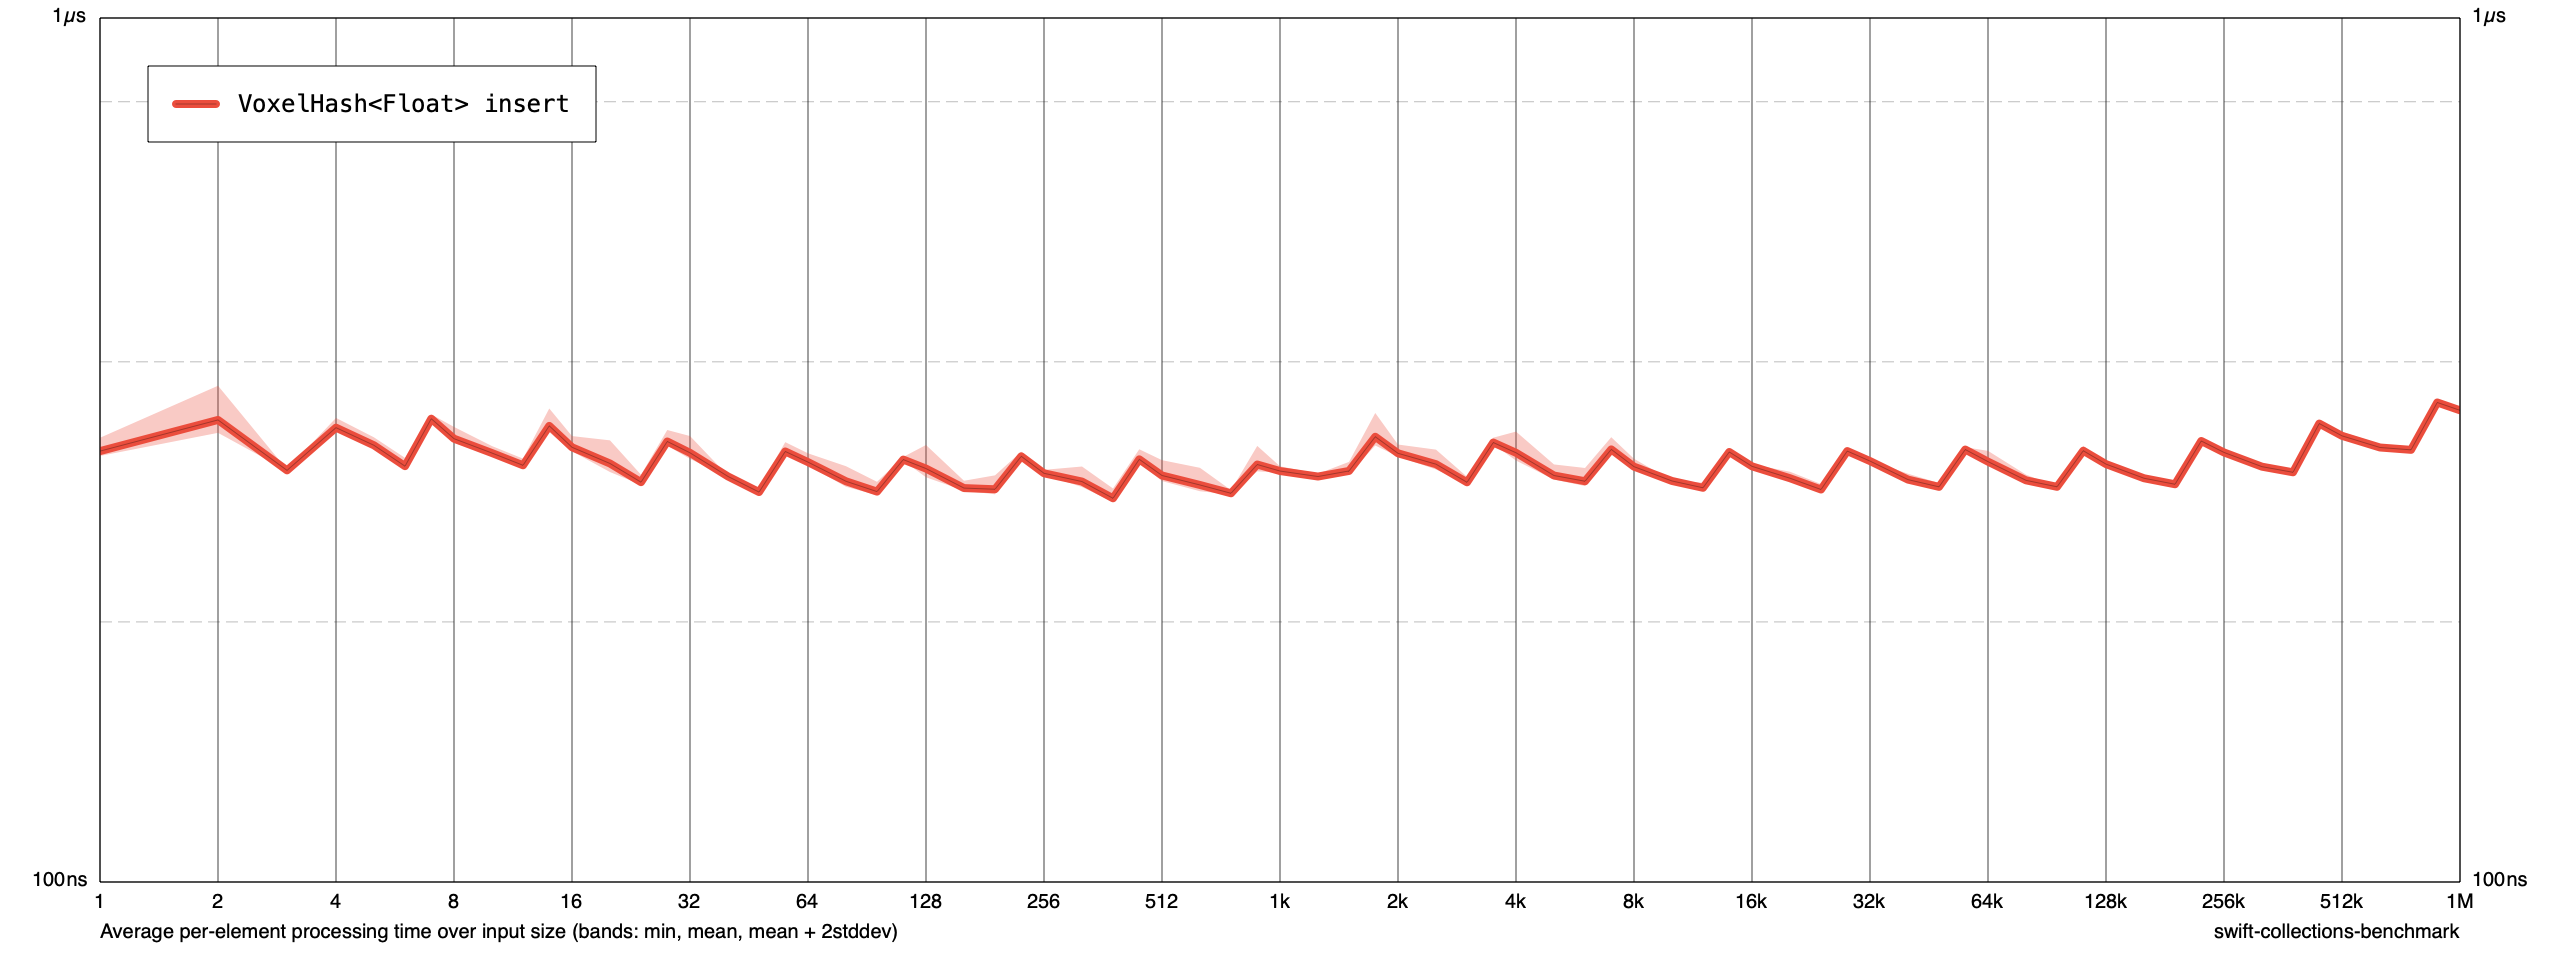
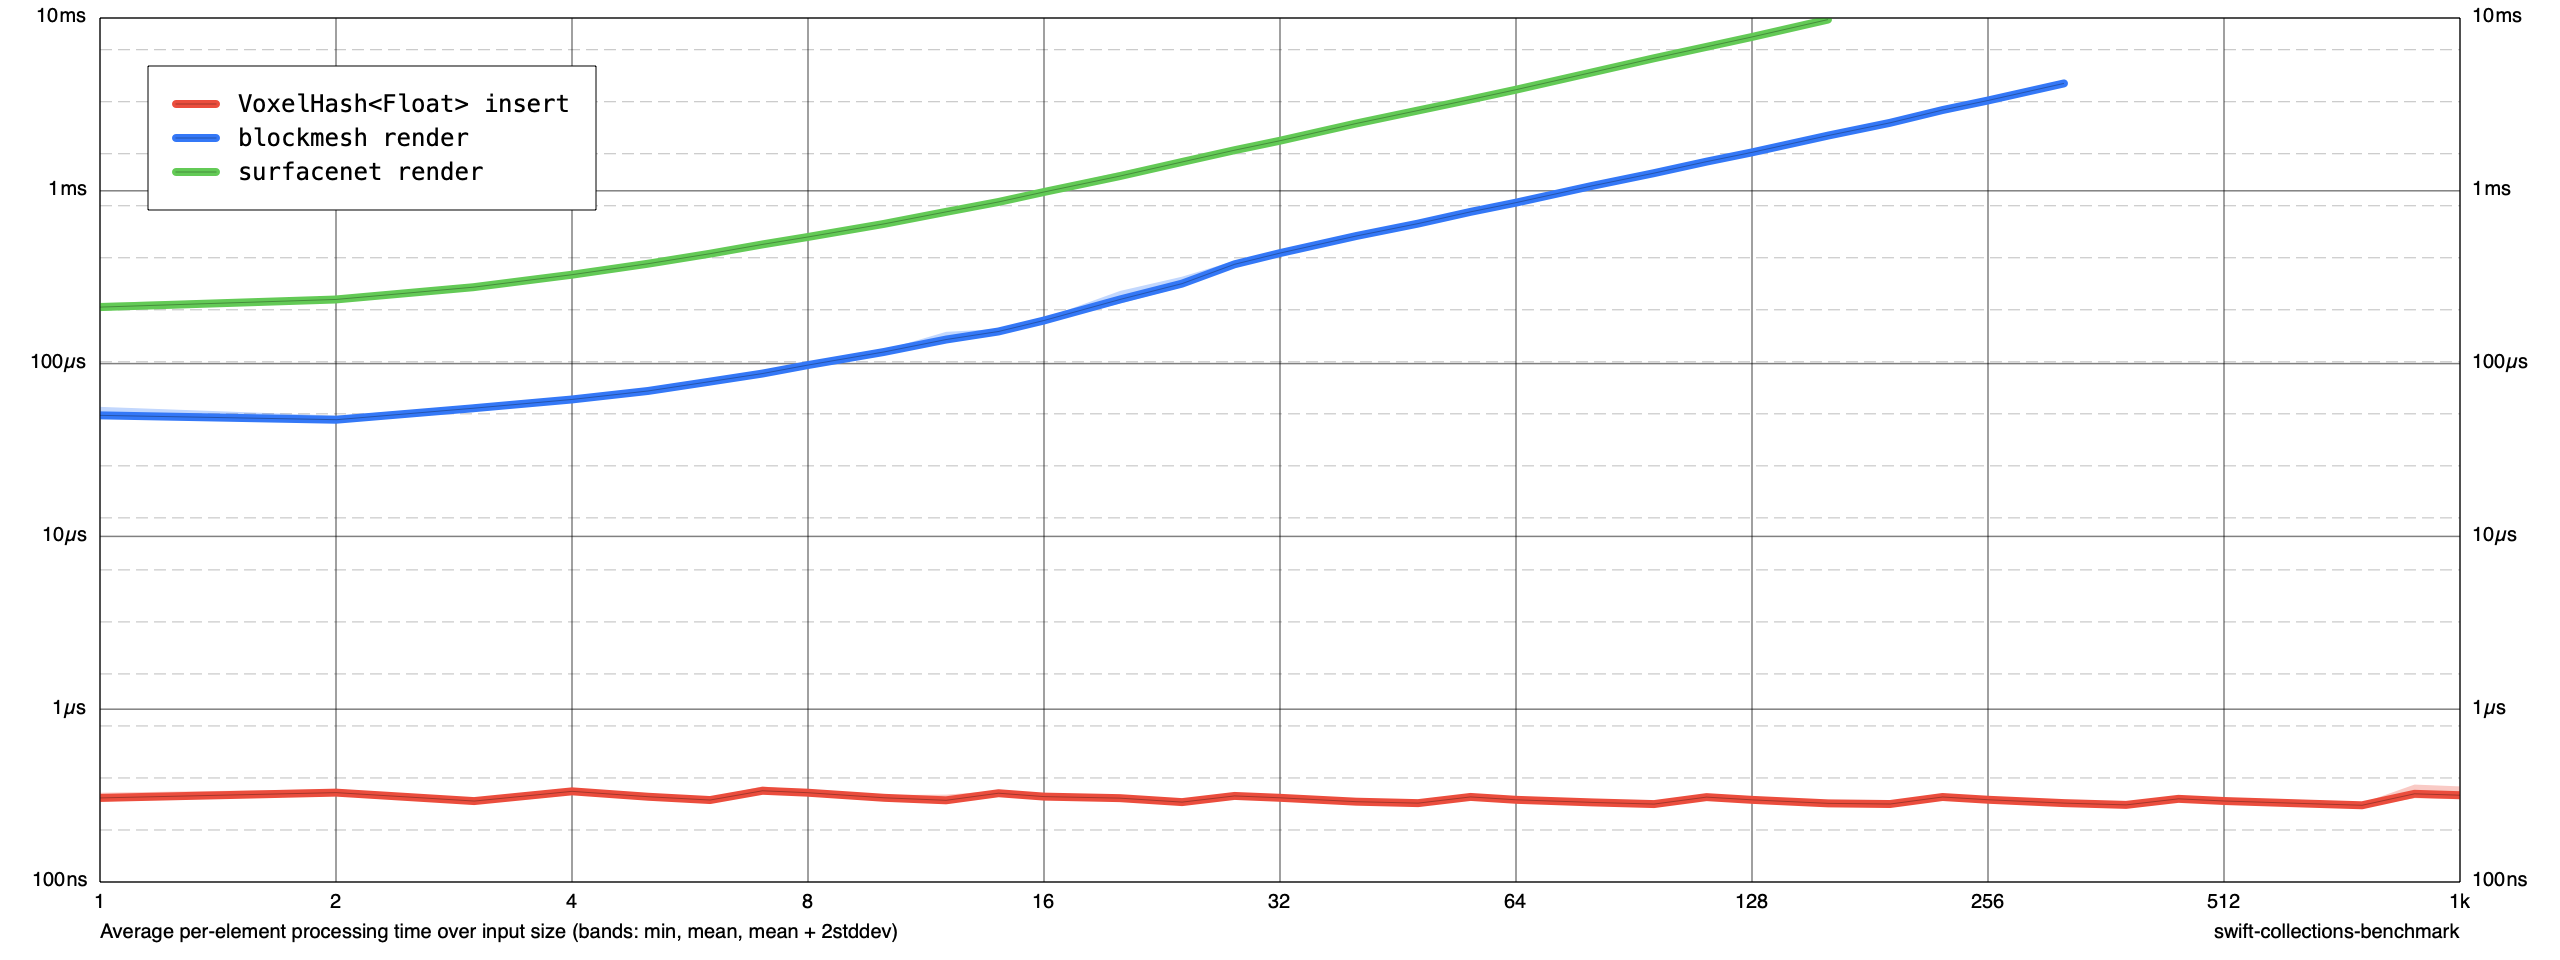
moving benchmarks into sub-project, adding rendering of various sized sections

diff --git a/Benchmarks/Sources/voxel-benchmarks/main.swift b/Benchmarks/Sources/voxel-benchmarks/main.swift
@@ -1,0 +1,99 @@
+import CollectionsBenchmark
+import Foundation
+import Heightmap
+import Noise
+import Voxels
+
+public extension Heightmap {
+    init(width: Int, height: Int, seed: Int) {
+        var noisedata: [Float] = []
+        let noise = GradientNoise2D(amplitude: 1, frequency: 0.01, seed: 235_926)
+        // evaluation of noise results in a relatively slowly changing value between -1 and 1
+        for linearIndex in 0 ..< (height * width) {
+            let xzIndex = XZIndex.strideToXZ(linearIndex, width: width)
+            let result = noise.evaluate(Double(xzIndex.x), Double(xzIndex.z))
+            noisedata.append(Float((result + 1) / 2.0))
+        }
+        self.init(noisedata, width: width)
+    }
+}
+
+let heightmap = Heightmap(width: 1025, height: 1025, seed: 437_347_632)
+let voxels = HeightmapConverter.heightmap(heightmap, maxVoxelIndex: 50, voxelSize: 1.0)
+
+// NOTE(heckj): benchmark implementations can be a bit hard to understand from the opaque inputs
+// and structure of the code.
+//
+// It's worthwhile to look at existing benchmarks that Karoy created for swift-collections:
+// - https://github.com/apple/swift-collections/blob/main/Benchmarks/Benchmarks/SetBenchmarks.swift
+// - https://github.com/apple/swift-collections/blob/main/Benchmarks/Benchmarks/OrderedSetBenchmarks.swift
+// - https://github.com/apple/swift-collections/blob/main/Benchmarks/Benchmarks/DictionaryBenchmarks.swift
+//
+// Implementation detail for the benchmarks. When they're running, each run has a "size" associated
+// with it, and that flows to the inputs that the task provides to your closure. There are 4 different default
+// 'input generators' registered and immediately available:
+//
+// Int.self
+// [Int].self
+// ([Int], [Int]).self
+// Insertions.self
+//
+// These result an array of length 'size' with integers, in shuffled order. The last one is a set of array of random
+// numbers where each number is within the range 0...i where i is the index of the element order. It's useful for
+// testing random insertions.
+
+var benchmark = Benchmark(title: "Voxels")
+
+benchmark.addSimple(
+    title: "VoxelHash<Float> insert",
+    input: [Int].self
+) { input in
+    let bounds = VoxelBounds(min: VoxelIndex(0, 0, 0), max: VoxelIndex(1000, 1000, 1000))
+    // var set = GSet<String, Int>(actorId: "A")
+    var voxelHash = VoxelHash(defaultVoxel: Float(1.0))
+    for i in input {
+        let index = bounds._unchecked_delinearize(i)
+        voxelHash[index] = -1
+    }
+    precondition(voxelHash.count == input.count)
+    blackHole(voxelHash)
+}
+
+benchmark.add(
+    title: "blockmesh render",
+    input: Int.self
+) { input in
+    { timer in
+        let bounds = VoxelBounds(min: VoxelIndex(0, 0, 0), max: VoxelIndex(input, 50, input))
+
+        var meshBuffer = MeshBuffer()
+        timer.measure {
+            meshBuffer = VoxelMeshRenderer.fastBlockMeshSurfaceFaces(voxels,
+                                                                     scale: .init(),
+                                                                     within: bounds)
+        }
+        blackHole(meshBuffer)
+    }
+}
+
+benchmark.add(
+    title: "surfacenet render",
+    input: Int.self
+) { input in
+    { timer in
+        let bounds = VoxelBounds(min: VoxelIndex(0, 0, 0), max: VoxelIndex(input, 50, input))
+
+        var meshBuffer = MeshBuffer()
+        timer.measure {
+            meshBuffer = try! SurfaceNetRenderer().render(voxelData: voxels,
+                                                          scale: .init(),
+                                                          within: bounds)
+        }
+        blackHole(meshBuffer)
+    }
+}
+
+// let _ = MarchingCubesRenderer().marching_cubes(data: voxels, scale: .init())
+
+// Execute the benchmark tool with the above definitions.
+benchmark.main()

diff --git a/Package.swift b/Package.swift
@@ -24,13 +24,11 @@ let package = Package(
             name: "Voxels",
             targets: ["Voxels"]
         ),
-        .executable(name: "voxel-benchmarks", targets: ["voxel-benchmarks"]),
     ],
     dependencies: [
         .package(url: "https://github.com/heckj/Heightmap", from: "0.6.0"),
         .package(url: "https://github.com/pointfreeco/swift-issue-reporting", from: "1.3.0"),
         .package(url: "https://github.com/apple/swift-docc-plugin", from: "1.0.0"),
-        .package(url: "https://github.com/apple/swift-collections-benchmark", from: "0.0.1"),
     ],
     targets: [
         .target(
@@ -46,13 +44,6 @@ let package = Package(
             dependencies: [
                 "Voxels",
                 .product(name: "Heightmap", package: "Heightmap"),
-            ]
-        ),
-        .executableTarget(
-            name: "voxel-benchmarks",
-            dependencies: [
-                "Voxels",
-                .product(name: "CollectionsBenchmark", package: "swift-collections-benchmark"),
             ]
         ),
     ]

diff --git a/Benchmarks/Package.swift b/Benchmarks/Package.swift
@@ -1,0 +1,29 @@
+// swift-tools-version: 5.10
+
+import PackageDescription
+
+let package = Package(
+    name: "VoxelBenchmarks",
+    platforms: [
+        .iOS(.v17),
+        .macOS(.v14),
+    ],
+    products: [
+        .executable(name: "voxel-benchmarks", targets: ["voxel-benchmarks"]),
+    ],
+    dependencies: [
+        .package(path: "../"),
+        .package(url: "https://github.com/tayloraswift/swift-noise", from: "1.1.0"),
+        .package(url: "https://github.com/apple/swift-collections-benchmark", from: "0.0.1"),
+    ],
+    targets: [
+        .executableTarget(
+            name: "voxel-benchmarks",
+            dependencies: [
+                "Voxels",
+                .product(name: "Noise", package: "swift-noise"),
+                .product(name: "CollectionsBenchmark", package: "swift-collections-benchmark"),
+            ]
+        ),
+    ]
+)

diff --git a/README.md b/README.md
@@ -18,4 +18,7 @@ Copies of some of these articles and papers are in [refs](refs/).
 
 ## benchmark notes
 
-swift run -c release voxel-benchmarks library run --library Benchmarks/Library.json devcheck
+./scripts/rebuild_benchmarks.bash
+./scripts/compare_benchmark.bash
+
+
